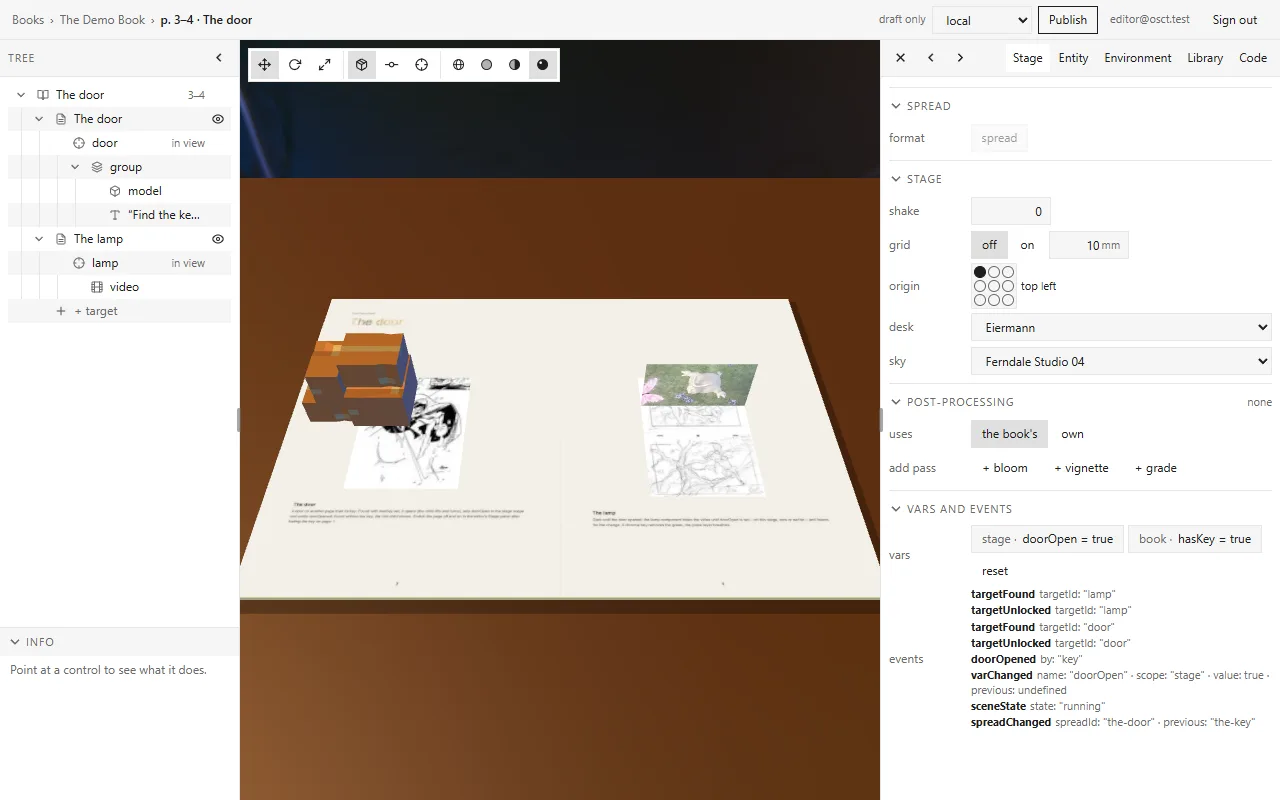
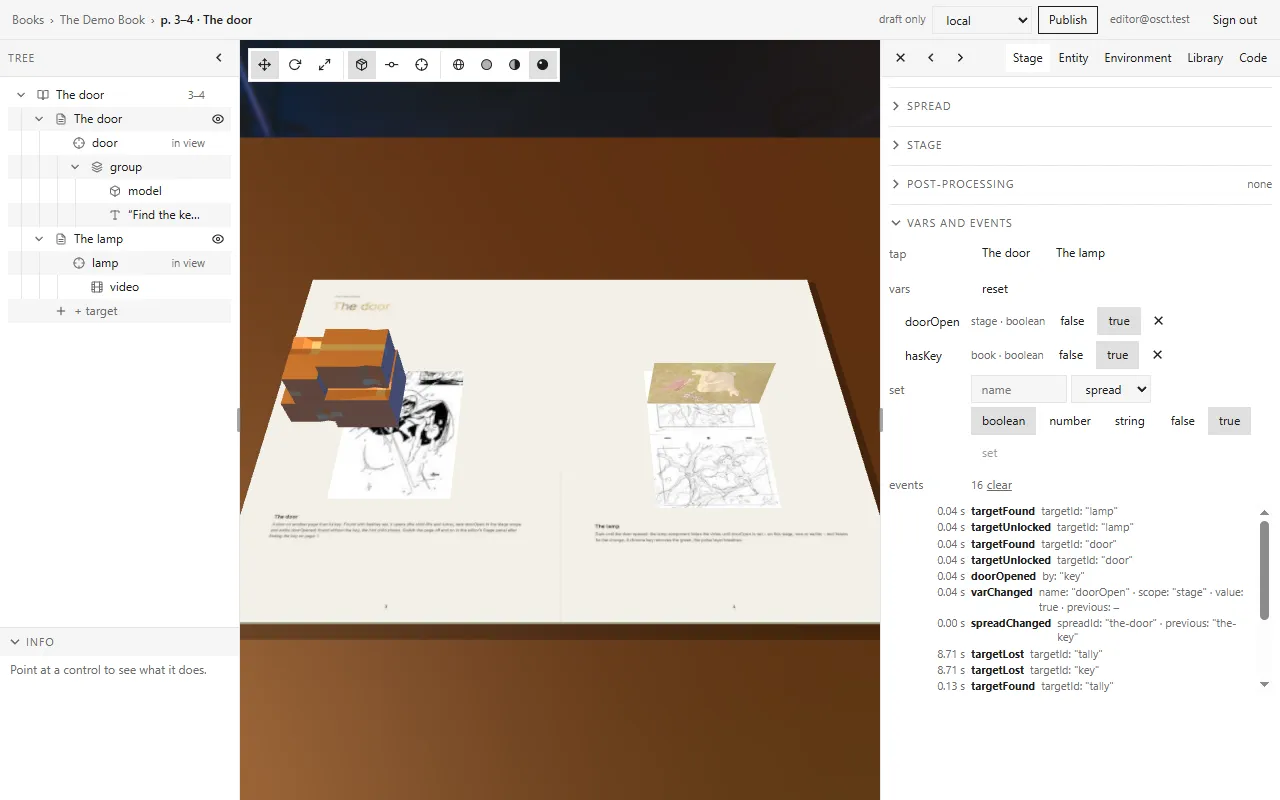
Unreleased: the tutorial's key shots re-shot, a section on tap, variables and the timeline; Stage and Entity panel fixes
The demo's draft re-imported from its content base (the brass key); demo 03, 05 and 10 and tools 07, 08 and 12
re-shot, tools 13 new, with a section in chapter 4. Found in the visual check at 1280 and 360 px: selecting a model
with an animation clip broke the Entity panel (the timeline effect looped), the timeline vanished in the phone's
sheet, wrapping rows centred their label, pass labels were cut off with the changed dot.

Refs #148

diff --git a/client/public/docs/tutorials/index.html b/client/public/docs/tutorials/index.html
@@ -134,6 +134,7 @@
           <li><a href="#tools-new-target">A new target</a></li>
           <li><a href="#tools-spreads">Adding and removing spreads</a></li>
           <li><a href="#tools-post">Post-processing: the book's and a spread's own</a></li>
+          <li><a href="#tools-stage-vars">Tap, variables and the timeline</a></li>
           <li><a href="#tools-labels">Words as labels</a></li>
           <li><a href="#tools-phone">The editor on a phone</a></li>
           <li><a href="#tools-tablet">The editor on a tablet</a></li>
@@ -408,8 +409,8 @@ npm run osct -- content status --env staging</code></pre>
   <p>The <em>key</em> is a model with three components. <code>spin</code> turns it around its own axis. <code>key</code> sets the book variable <code>hasKey</code> on the first find – it is kept with the reader's progress – and a tap sends the event <code>keyRattled</code>. <code>animation</code> plays the model's clip <code>rattle</code> on a tap. To tap it without aiming, use <b>tap</b> in the Stage tab's <b>vars and events</b>.</p>
   <p>The <em>tally</em> is a group with a text. Its <code>tally</code> component draws "n of N pages found" and updates it on every new find, on any spread.</p>
   <figure class="shot">
-    <img src="/docs/tutorials/demo/03-key-entity.webp" width="1280" height="800" loading="lazy" alt="The key spread in the editor: the whole open book on the desk, the key model selected with its orange outline and the move gizmo; the tree marks the model row; the Entity panel's breadcrumb reads key › model, then name, + node, placement, the file key.glb and three components – spin with its speed in degrees per second and its axis, key, and animation with plays on tap; the Info view describes the speed row.">
-    <figcaption>The key selected. Every component is a block in the Entity panel: <code>spin</code> with its speed and axis, <code>key</code> without settings, <code>animation</code> with <em>plays on: tap</em>. Pointing at a row shows its help in the Info view.</figcaption>
+    <img src="/docs/tutorials/demo/03-key-entity.webp" width="1280" height="800" loading="lazy" alt="The key spread in the editor, close to the left page: the brass key stands upright on its printed image, selected with its orange outline and the move gizmo; the tree marks the model row; the Entity panel's breadcrumb reads key › model, then name, + node, add as, the placement with scale 0.6, the file key.glb and three components – spin with speed 40 °/s and axis y, key, and animation with the model's timeline at 0.00 s of 0.90 s, the clip rattle and plays on tap; the Info view describes the speed row as speed · degreesPerSecond.">
+    <figcaption>The key selected. Every component is a block in the Entity panel: <code>spin</code> with its speed and axis, <code>key</code> without settings, <code>animation</code> with the model's timeline, the clip <em>rattle</em> and <em>plays on: tap</em>. Pointing at a row shows its help in the Info view.</figcaption>
   </figure>
 
   <h4>3–4 · The door</h4>
@@ -442,8 +443,8 @@ npm run osct -- content status --env staging</code></pre>
   </ol>
   <p>The tree's eye switches a target off and on (lost, found again). Variables have scopes: <em>spread</em> lives while the spread is shown, <em>stage</em> while the scene exists, <em>book</em> is kept with the reader's progress. That is why <code>hasKey</code> survives the walk from page 1 to page 3.</p>
   <figure class="shot">
-    <img src="/docs/tutorials/demo/05-door-open.webp" width="1280" height="800" loading="lazy" alt="The door spread after the key was found: the door model lifted and turned, the lamp video showing on the right page; the Stage panel's vars and events section lists stage · doorOpen = true, book · hasKey = true and the events targetFound, targetUnlocked, doorOpened by key, varChanged and spreadChanged from the key to the door.">
-    <figcaption>After the key: the door is open, the lamp video shows. <em>vars and events</em> lists <code>stage · doorOpen = true</code>, <code>book · hasKey = true</code> and the events, newest first – down to <code>spreadChanged</code> from the key to the door.</figcaption>
+    <img src="/docs/tutorials/demo/05-door-open.webp" width="1280" height="800" loading="lazy" alt="The door spread after the walk from the key: the door model on the left page, the lamp video showing on the right page; the Stage panel's vars and events section has a tap button for each target, The door and The lamp, the variables doorOpen (stage · boolean) and hasKey (book · boolean), both set to true, the set row, and the timeline: at 0.04 s targetFound and targetUnlocked for the lamp and the door, doorOpened by key and varChanged doorOpen, at 0.00 s spreadChanged from the key to the door, then the key spread's events.">
+    <figcaption>After the key: the door is open, the lamp video shows. <em>vars and events</em> lists <code>doorOpen</code> (stage) and <code>hasKey</code> (book), both <em>true</em>, and the timeline, newest first. Its clock starts at <code>spreadChanged</code>, when the door's spread opened; the key spread's events follow below.</figcaption>
   </figure>
 
   <h3 class="sec" id="demo-component">How a component works</h3>
@@ -495,7 +496,7 @@ npm run osct -- content status --env staging</code></pre>
       <p>To see the demo as a reader, open the staging reader with <code style="white-space: nowrap">?content=</code> (see <a href="#demo-getting-it-in">Getting it in</a>) and point the camera at the printed pages.</p>
     </div>
     <figure class="shot">
-      <img src="/docs/tutorials/demo/10-phone.webp" width="780" height="1688" loading="lazy" alt="The editor on a phone: the key spread on the stage at the top with the key selected and the toolbar in two rows, ‹ and › at the stage's lower corners; below it the sheet with its grip and six icon tabs, the Entity panel for the key's model – the breadcrumb key › model, name, + node, add as and the placement – in finger-sized rows.">
+      <img src="/docs/tutorials/demo/10-phone.webp" width="780" height="1688" loading="lazy" alt="The editor on a phone: the key spread on the stage at the top, seen low over the left page, the brass key selected with its orange outline and the move gizmo, the toolbar in two rows, ‹ and › at the stage's lower corners; below it the sheet with its grip and six icon tabs, the Entity panel for the key's model – the breadcrumb key › model, name, + node, add as and the placement – in finger-sized rows.">
       <figcaption>The key on a phone, with the Entity sheet. Every control is finger-sized.</figcaption>
     </figure>
   </div>
@@ -503,7 +504,7 @@ npm run osct -- content status --env staging</code></pre>
   <p class="muted">The reference for every detail: the repository's <code>fixtures/demo/</code> (the demo itself), <code>docs/plugins.md</code> (writing a plugin) and <code>docs/editor.md</code> (the editor).</p>
 
   <h2 class="chapter" id="tools"><span class="gold">4 · The editor's tools</span></h2>
-  <p>The tools that came with versions 1.27 to 1.35, each shown on the demo book. None of these shots was saved: every change in them was taken back with <b>Back to the draft</b>. Nothing reaches the draft until you press <b>Save</b>, and nothing reaches readers until you <b>Publish</b>.</p>
+  <p>The tools that came with versions 1.27 to 1.36, each shown on the demo book. None of these shots was saved: every change in them was taken back with <b>Back to the draft</b>. Nothing reaches the draft until you press <b>Save</b>, and nothing reaches readers until you <b>Publish</b>.</p>
 
   <h3 class="sec" id="tools-selection">One selection: tree, stage and inspector</h3>
   <p>There is one selection, and it lives at a level: a <b>target</b> (the printed image), its <b>entity</b> (the root of its AR content) or a <b>node</b> inside it. Select in any of the three places and the other two follow:</p>
@@ -554,12 +555,25 @@ npm run osct -- content status --env staging</code></pre>
   <h3 class="sec" id="tools-post">Post-processing: the book's and a spread's own</h3>
   <p>The passes in the Stage tab's <b>post-processing</b> belong to the <b>book</b>: edited once, every spread without a list of its own shows them. The row <b>uses</b> says which list is in effect for the spread on the stage, and the section's head repeats it. <em>the book's</em> is the default – changing the list then changes it for every such spread. <em>own</em> gives this spread an override that starts as a copy of the book's; choosing <em>the book's</em> again drops it. <b>Save</b> writes what changed: the book's list, the spread's, or both.</p>
   <figure class="shot">
-    <img src="/docs/tutorials/tools/07-post-book.webp" width="1280" height="800" loading="lazy" alt="The twins spread in the rendered shading with a soft bloom and a dark vignette at the edges; the Stage panel's post-processing section reads the book's: uses the book's, a bloom with strength 0.35, radius 0.4 and threshold 0.97, a vignette with strength 0.8; Back to the draft and Save, with the book's beside Save.">
+    <img src="/docs/tutorials/tools/07-post-book.webp" width="1280" height="800" loading="lazy" alt="The twins spread in the rendered shading with a soft bloom and a dark vignette at the edges; the Stage panel's post-processing section reads the book's: uses the book's, a bloom with strength 0.35, radius 0.4 and threshold 0.97, a vignette with strength 0.8, radius 0.6, softness 0.6 and the colour #000000, a dot before every changed row; Back to the draft and Save, with the book's beside Save.">
     <figcaption>A bloom and a vignette in the book's list – every spread without its own shows them. Beside <b>Save</b>: what it would write, <em>the book's</em>.</figcaption>
   </figure>
   <figure class="shot">
-    <img src="/docs/tutorials/tools/08-post-own.webp" width="1280" height="800" loading="lazy" alt="The same spread with uses set to own: the section's head reads this spread's, the list holds the copied bloom and vignette and a new grade with reach AR layer, exposure, contrast, saturation and tint; beside Save: the book's + this spread's; the Info view says own passes for this spread.">
+    <img src="/docs/tutorials/tools/08-post-own.webp" width="1280" height="800" loading="lazy" alt="The same spread with uses set to own: the section's head reads this spread's, the list holds the copied bloom and vignette and a new grade with reach AR layer, exposure, contrast, saturation and tint; at the bottom Back to the draft and, beside Save, the book's + this spread's; the Info view describes the bloom.">
     <figcaption><em>own</em>: the spread's list starts as a copy of the book's, here with a grade added. <b>Save</b> would write both lists.</figcaption>
+  </figure>
+
+  <h3 class="sec" id="tools-stage-vars">Tap, variables and the timeline</h3>
+  <p>The Stage tab's <b>vars and events</b> plays a book's story by hand, without a phone. It is closed until you open it by its head.</p>
+  <ul>
+    <li><b>tap</b> has a button for each printed target of the spread. It taps the target's AR content as a reader's tap would, without aiming at it: the entity's <code>onTap</code>, the <code>animation</code> component's <em>plays on: tap</em> and the event <code>targetTapped</code>. A target that is not found, or has no AR content, is greyed out.</li>
+    <li><b>vars</b> lists the plugins' variables, each with its scope and type and a control for its value – <em>false / true</em>, a number or a text – and <b>×</b> to delete it. <b>set</b> adds one: a camelCase name, the scope (spread, stage, session or book), the type and the value. Both write through the plugin API, so the plugins react as if one of them had set it: set <code>hasKey</code> to <em>true</em> on the door's spread and the door opens without a visit to page 1. <b>reset</b> starts a new game.</li>
+    <li><b>events</b> is the timeline, newest first: the time since the spread opened, the event and its payload. The last 100 are kept; <b>clear</b> empties it.</li>
+  </ul>
+  <p>Nothing here is saved to the draft: the variables live while the spread's workspace is open, as a reader's progress lives on the phone.</p>
+  <figure class="shot">
+    <img src="/docs/tutorials/tools/13-stage-vars.webp" width="1280" height="800" loading="lazy" alt="The key spread with the Stage panel's vars and events open: the tap row with The key, just tapped, and The tally; vars with tries (stage · number, 2), set by hand, and hasKey (book · boolean, true), each with a cross; the set row with an empty name, the scope stage, number pressed and the value 2; events 10 with clear, then the timeline: 11.61 s targetTapped key and keyRattled, 9.67 s varChanged tries, 0.14 s the finds and the key's varChanged hasKey, 0.00 s spreadChanged; the Info view explains the tap row.">
+    <figcaption><em>The key</em> tapped from the panel: <code>targetTapped</code> and the plugin's own <code>keyRattled</code> top the timeline. <code>tries</code> was set by hand as a <em>stage</em> number.</figcaption>
   </figure>
 
   <h3 class="sec" id="tools-labels">Words as labels</h3>
@@ -590,7 +604,7 @@ npm run osct -- content status --env staging</code></pre>
       <p>The column edges can be dragged on a tablet too: the panel from 16rem to 70% of the window, the tree from 10rem to 40%. A double tap on an edge restores its width.</p>
     </div>
     <figure class="shot">
-      <img src="/docs/tutorials/tools/12-tablet.webp" width="768" height="1024" loading="lazy" alt="The editor on a 768 px tablet in portrait: the tree collapsed to a narrow bar with › at the left, the key spread on the stage in the middle with the key selected, and the panel on the right with icon tabs and the Entity panel of the key's model – breadcrumb key › model, name, + node, add as, placement, file, the spin component and the animation component – in finger-sized rows.">
+      <img src="/docs/tutorials/tools/12-tablet.webp" width="768" height="1024" loading="lazy" alt="The editor on a 768 px tablet in portrait: the tree collapsed to a narrow bar with › at the left, the key spread on the stage in the middle, seen low over the left page with the brass key selected, and the panel on the right with icon tabs and the Entity panel of the key's model – breadcrumb key › model, name, + node, add as, placement, file, the spin, key and animation components with the model's timeline – in finger-sized rows.">
       <figcaption>A 768 px tablet: the tree collapsed, the tabs as icons.</figcaption>
     </figure>
   </div>

diff --git a/editor/src/lib/panels/StagePanel.svelte b/editor/src/lib/panels/StagePanel.svelte
@@ -134,7 +134,7 @@
 {/snippet}
 
 <Section id="stage.narrative" label="vars and events" open={false} help="The narrative of the book's plugins on the stage: tap a target, set their variables by hand, read the stage's timeline.">
-  <div class="row" data-help="Taps a target's AR content without aiming at it, as a reader's tap would: the entity's onTap (a plugin component's, the animation's playOn: tap) and the event targetTapped. Only a found target with AR content takes a tap.">
+  <div class="row top" data-help="Taps a target's AR content without aiming at it, as a reader's tap would: the entity's onTap (a plugin component's, the animation's playOn: tap) and the event targetTapped. Only a found target with AR content takes a tap.">
     <span class="label">tap</span>
     <span class="controls">
       {#each taps as t (t.id)}
@@ -152,7 +152,7 @@
       {#if varError}<span class="small danger">{varError}</span>{/if}
     </span></div>
   {#each vars as v (v.scope + ":" + v.name)}
-    <div class="row" data-help-name="{v.scope} · {v.name}" data-help="A variable of the {v.scope} scope, a {v.type}. Change it to test a branch: it is written through the plugin API, so the plugins hear varChanged as from a plugin's set. The cross deletes it.">
+    <div class="row top" data-help-name="{v.scope} · {v.name}" data-help="A variable of the {v.scope} scope, a {v.type}. Change it to test a branch: it is written through the plugin API, so the plugins hear varChanged as from a plugin's set. The cross deletes it.">
       <span class="label var" title="{v.scope} · {v.name}">{v.name}</span>
       <span class="controls">
         <span class="small muted tag">{v.scope} · {v.type}</span>
@@ -160,7 +160,7 @@
         <button type="button" class="icon-button" aria-label="Delete {v.name}" title="Delete {v.name}" onclick={() => write(v.name, null, v.scope)}><Icon name="close" /></button>
       </span></div>
   {/each}
-  <div class="row" data-help="Sets a variable by hand, as a plugin's api.vars.set(name, value, scope) would – a camelCase name, a scope and a value of a type. An existing variable of that name and scope takes the new value.">
+  <div class="row top" data-help="Sets a variable by hand, as a plugin's api.vars.set(name, value, scope) would – a camelCase name, a scope and a value of a type. An existing variable of that name and scope takes the new value.">
     <span class="label">set</span>
     <span class="controls">
       <input class="field name" aria-label="Variable name" placeholder="name" bind:value={newName} />
@@ -191,12 +191,14 @@
   .w { width: 5rem; display: inline-flex; }
   .w :global(.scrub) { width: 100%; }
   .wide { width: 100%; }
+  .row.top { align-items: start; }
+  .row.top > .label { line-height: var(--control-height); }
   .label.var { padding-left: 1rem; color: var(--text); }
   .tag { white-space: nowrap; }
   .name { width: 6rem; }
   .text { width: 8rem; }
-  .timeline { list-style: none; margin: 0 0 .25rem; padding: 0; max-height: 12rem; overflow: auto; overflow-x: hidden; font-size: var(--text-small); }
-  .timeline li { display: grid; grid-template-columns: 4rem auto minmax(0, 1fr); gap: .375rem; align-items: baseline; padding: .0625rem 0; }
+  .timeline { flex-shrink: 0; list-style: none; margin: 0 0 .25rem; padding: 0; max-height: 12rem; overflow: auto; overflow-x: hidden; font-size: var(--text-small); }
+  .timeline li { display: grid; grid-template-columns: 4.75rem auto minmax(0, 1fr); gap: .375rem; align-items: baseline; padding: .0625rem 0; }
   .at { font-variant-numeric: tabular-nums; text-align: right; }
   .detail { overflow-wrap: anywhere; }
   .origin { display: inline-grid; grid-template-columns: repeat(3, .75rem); grid-template-rows: repeat(3, .75rem); gap: .125rem; padding: .125rem;

diff --git a/editor/src/lib/panels/EntityPanel.svelte b/editor/src/lib/panels/EntityPanel.svelte
@@ -301,7 +301,7 @@
   // ── the timeline of a model node (the animation component drives the same clip) ──
   // The scene builds a node once its model is loaded: the panel looks every frame until the timeline is there, then
   // reads its state every frame (the time runs)
-  let timeline = $state<NodeTimeline | null>(null);
+  let timeline = $state.raw<NodeTimeline | null>(null);
   let timelineState = $state<{ clip: string; time: number; playing: boolean; duration: number } | null>(null);
   $effect(() => {
     const t = target;
@@ -318,7 +318,8 @@
       timelineState = tl ? tl.state() : null;
       frame = requestAnimationFrame(tick);
     };
-    tick();
+    // Untracked: the first look runs inside the effect, and reading `timeline` there would rerun it endlessly
+    untrack(tick);
     return () => cancelAnimationFrame(frame);
   });
   const clipNames = $derived(timeline?.clips.map(c => c.name) ?? []);

diff --git a/editor/src/lib/panels/PassesPanel.svelte b/editor/src/lib/panels/PassesPanel.svelte
@@ -158,7 +158,7 @@
 <style>
   .w { width: 6rem; display: inline-flex; }
   .w :global(.scrub) { width: 100%; }
-  .label.sub { padding-left: 1rem; }
+  .label.sub { padding-left: .5rem; }
   .label.pass { color: var(--text); }
   .actions { display: flex; align-items: center; gap: .5rem; margin-top: .5rem; border-top: 1px solid var(--line); padding-top: .5rem; }
   .grow { flex: 1; }

diff --git a/docs/CHANGELOG.md b/docs/CHANGELOG.md
@@ -12,6 +12,29 @@ are the same for app, content build and server (`agents/RULES.md` #10, #23):
 Sections per version: *Added*, *Changed*, *Fixed*, *Removed* (only those that apply). Versions before
 1.1.2 are in the git history.
 
+## Unreleased
+
+### Added
+- **The tutorial shows the Stage panel's tap, variables and timeline** (#148, #88): chapter 4 of `/docs/tutorials/` has a
+  section *Tap, variables and the timeline* with a new screenshot – a target tapped from the panel, a variable set by
+  hand, the timeline with its times.
+
+### Changed
+- **The tutorial's key shots show the brass key** (#148): the key spread on the desktop, the phone and the tablet, and the
+  door after the walk from the key, re-shot with the demo's animated key instead of the dragon; the post-processing shots
+  show the panel as it is now. Captions and alt texts follow.
+
+### Fixed
+- **Selecting a model with an animation clip broke the Entity panel** (#148): the timeline's first look inside its
+  effect read and wrote the same state, so selecting the demo's key ended in Svelte's *maximum update depth exceeded*
+  and the error page. The timeline is now kept as a raw value and looked up untracked.
+- **The Stage panel's timeline vanished in a short panel** (#148): in the phone's sheet the list of events was squeezed
+  to no height under *events*; it keeps its height now and scrolls in itself.
+- **Wrapping rows in *vars and events* keep their label on the first line** (#148): *tap*, a variable and *set* no longer
+  centre the label across two or three lines of controls, and the timeline's times line up with the label column.
+- **Pass rows keep their words with the changed dot** (#148): the post-processing rows are indented less, so
+  *● saturation* and *● threshold* are no longer cut off.
+
 ## 1.36.1 – 2026-10-30
 
 ### Changed

diff --git a/agents/MEMORY.md b/agents/MEMORY.md
@@ -4,6 +4,22 @@ Decisions and context that are not obvious from the code. Newest first.
 Add new entries at the top with a date. Tick `[x]` open items when resolved and note the
 outcome in the line (or move it into a dated decision block).
 
+## 2026-10-30 – Tutorial re-shoot and a look at the Stage panel (#148)
+
+- **The key shots are re-shot** (demo 03, 05, 10; tools 07, 08, 12; new tools 13): the local demo draft was imported
+  again from the demo's content base on the CDN (`https://buildingfictions.b-cdn.net/demo`, 1.36.1), whose key is the
+  brass key – the reader dev server's bundled content was still an old build with the dragon. The stage frames the key
+  from low over the left page, so the printed sheet's outdated text ("a dragon") stays out of the picture until the
+  sheets are rendered again (#179).
+- **A `$state` that an effect both reads and writes on its first run loops**: the Entity panel's timeline effect called
+  its frame tick synchronously, read `timeline` and wrote it – with a model that has clips (the key) selecting it ended
+  in `effect_update_depth_exceeded`. The timeline is `$state.raw` (a proxied object never equals the raw one) and the
+  first tick runs `untrack`ed.
+- **A scrolling element in a panel's flex column needs `flex-shrink: 0`**: `overflow: auto` drops its automatic minimum
+  height, so the timeline collapsed to nothing in the phone's sheet (the rows and sections already had it, #170).
+- Found and left for later: ‹ › over the stage toolbar at the sheet's almost-full height (#177), sticky hover on touch
+  (#178), the demo's sheet text (#179) – all in Backlog.
+
 ## 2026-10-30 – Type-only imports, `verbatimModuleSyntax` on (#176)
 
 - **The flag is on in every TypeScript config** (client + service worker, engine, editor + its plugin API, scripts,
